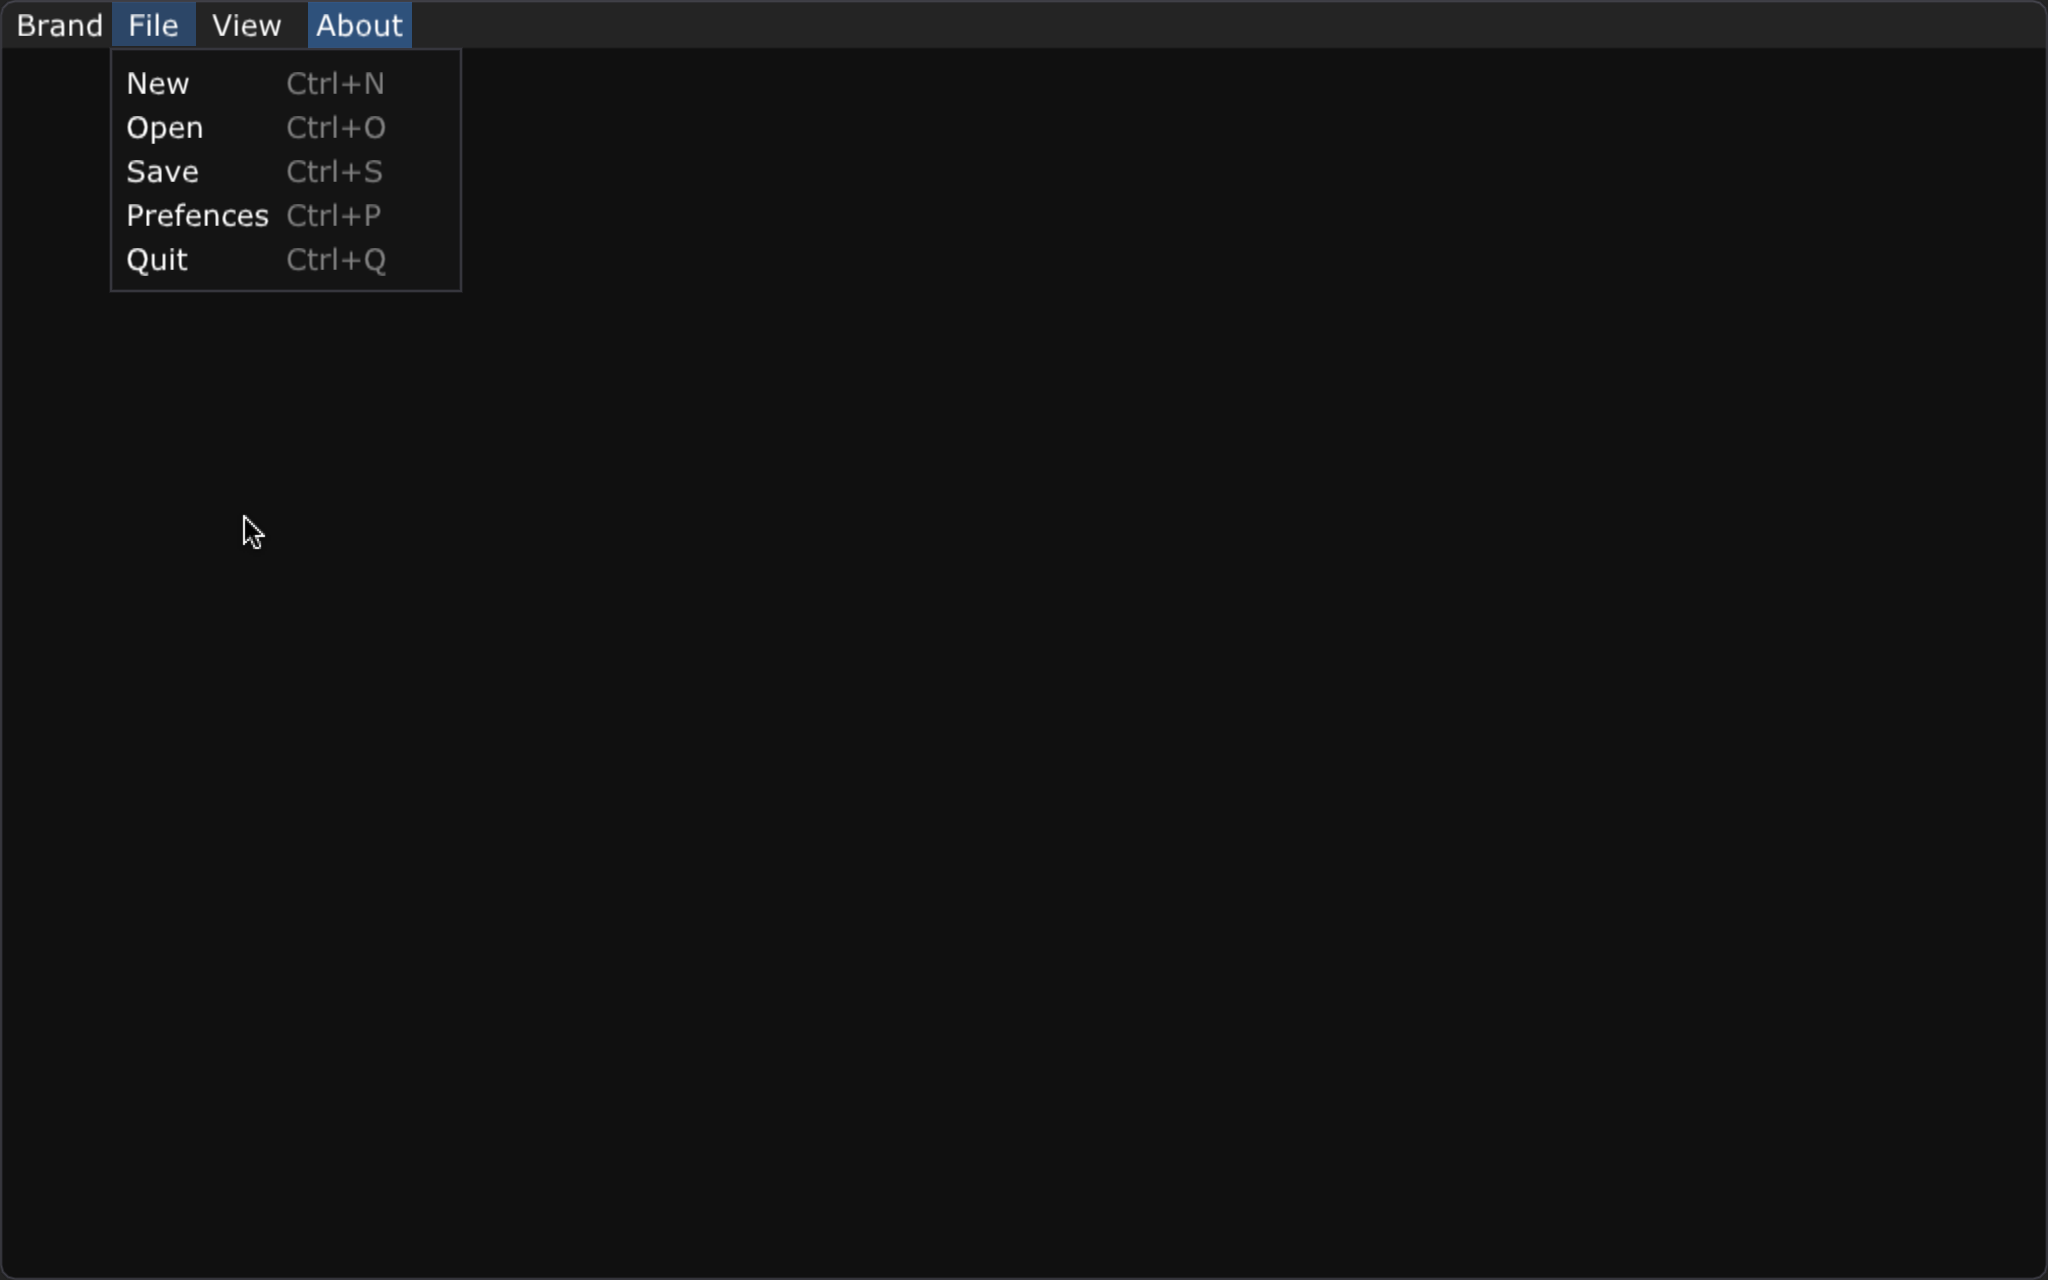
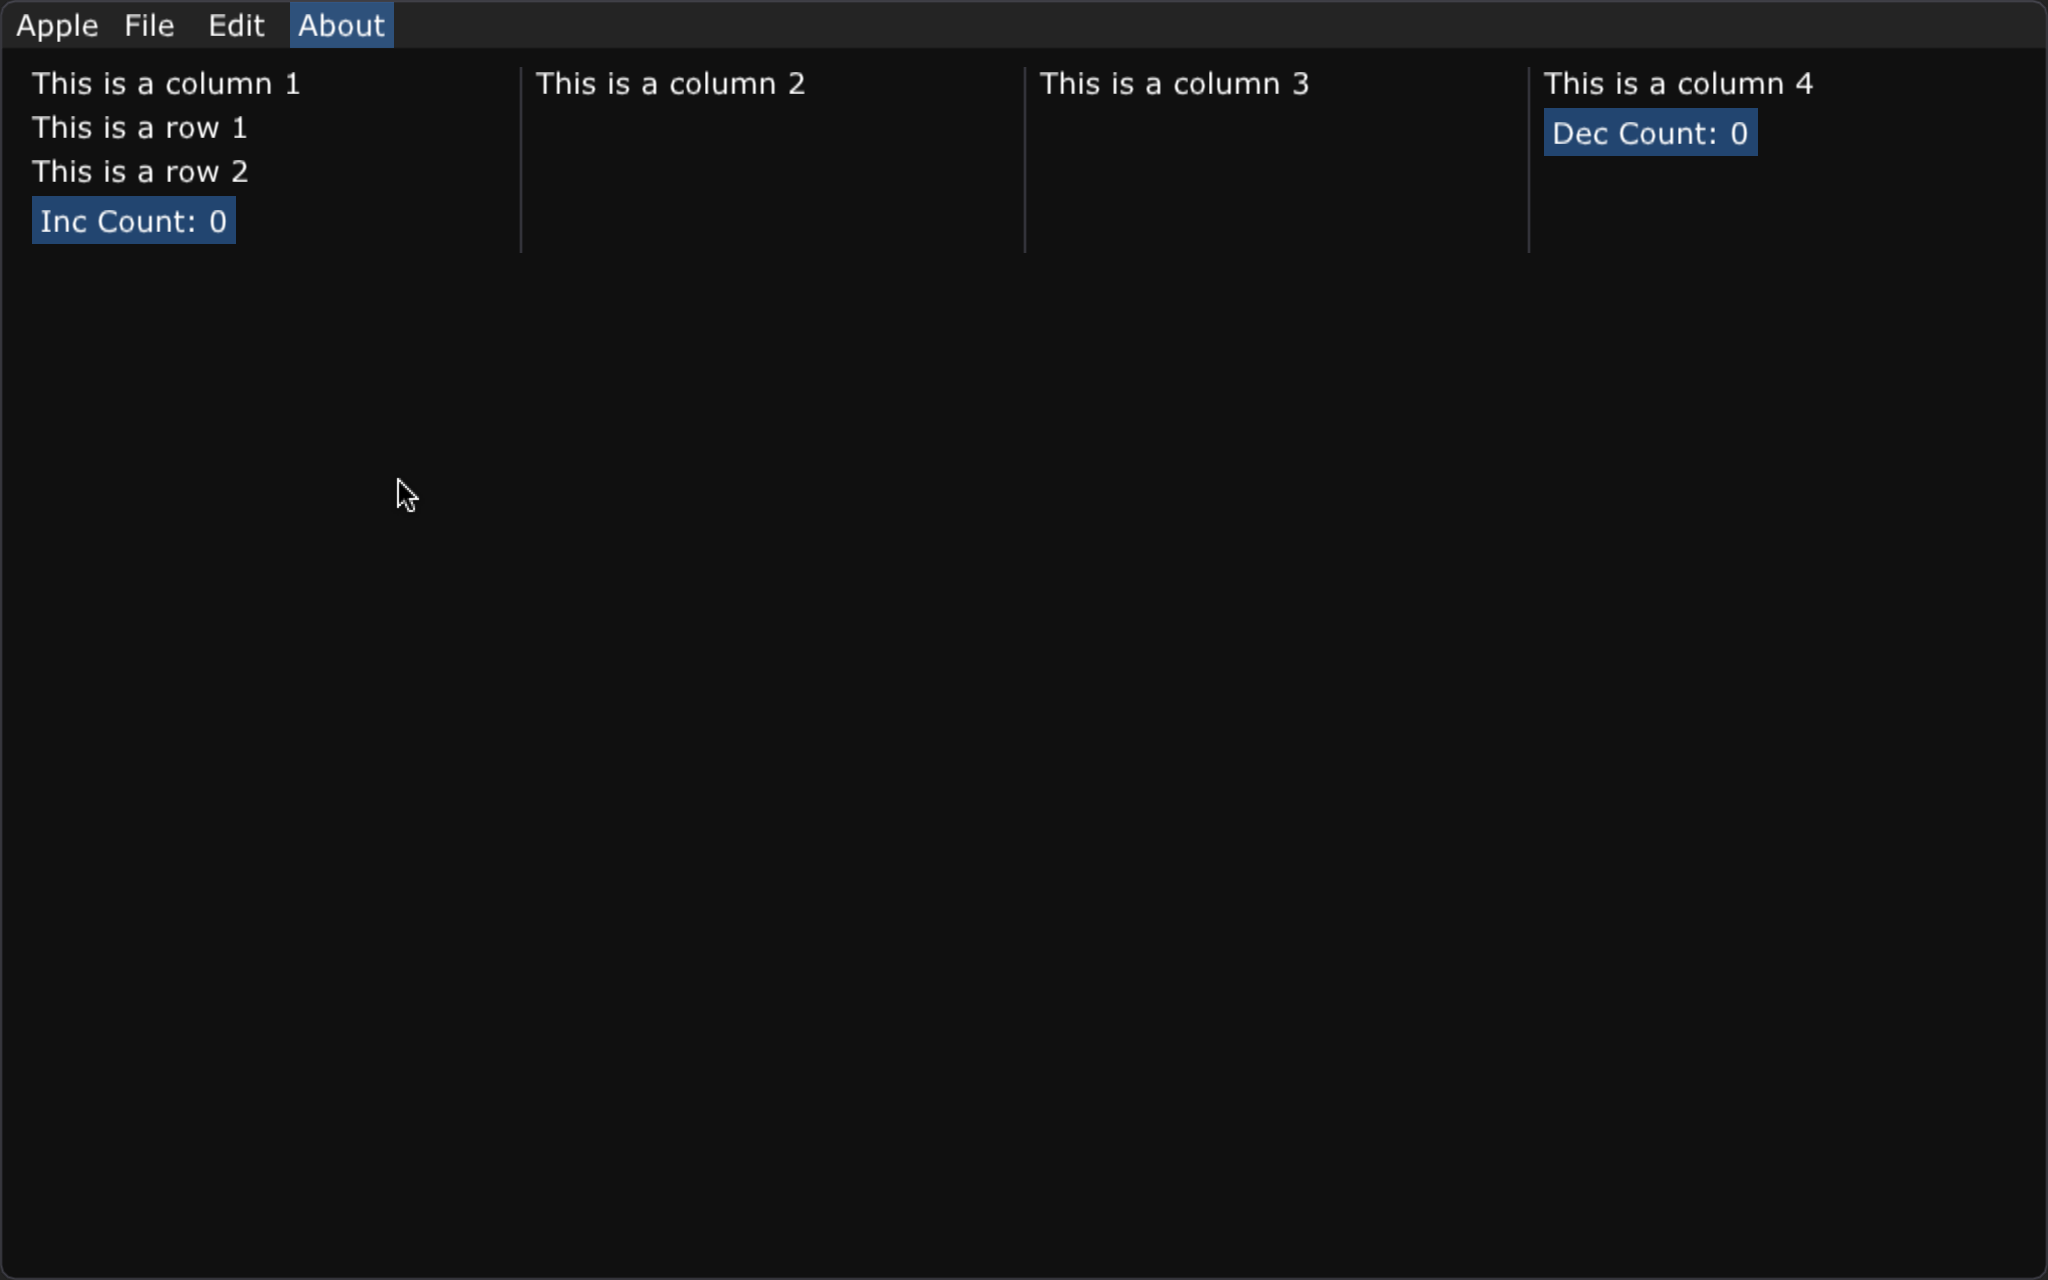
StatefullWidget first try

diff --git a/src/main.cpp b/src/main.cpp
@@ -77,33 +77,38 @@ int main()
     StatefullWidget * myWgt = new StatefullWidget();
     myWgt->build(
         new Button(
-            "KLK BTB: " + std::to_string(count),
+            "Inc Count: " + std::to_string(count),
             [](){
                 count++;   
                 std::cout<<count<<std::endl;
-                
             }
         )
     );
     
 
-    std::vector<Widget*> rows{
+    std::vector<Widget*> row1{
         new Text("This is a column 1"),
         new Text("This is a row 1"),
         new Text("This is a row 2"),
         myWgt
     };
 
-    std::vector<Widget*> cols{
-        new Row(rows),
-        new Text("This is a column 2"),
-        new Text("This is a column 3"),
+    std::vector<Widget*> row2{
+        new Text("This is a column 4"),
         new Button(
-            "KLK BTN",
+            "Dec Count: " + std::to_string(count),
             [](){
-                
+                count--;
+                std::cout<<count<<std::endl;
             }
         )
+    };
+
+    std::vector<Widget*> cols{
+        new Row(row1),
+        new Text("This is a column 2"),
+        new Text("This is a column 3"),
+        new Row(row2)
     };
 
     MainApp * app = new MainApp(
